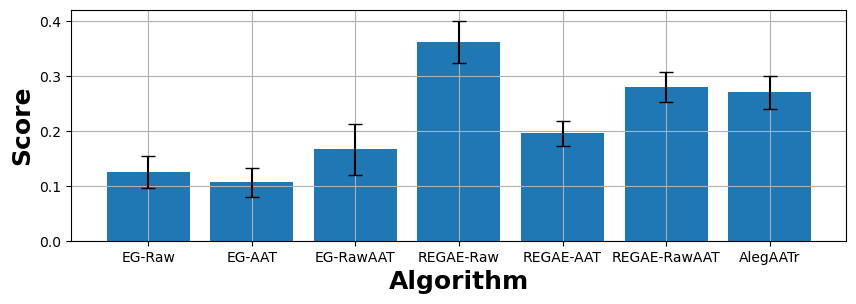
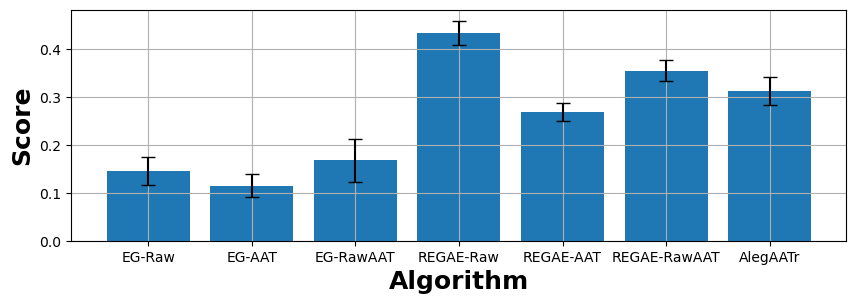
Fixed minor bug in adaptability plotting

Changed region(s): [[0.0304, 0.0592, 0.972, 0.5329], [0.0304, 0.5329, 0.972, 0.6513]]

diff --git a/simulations/adaptability_scores.py b/simulations/adaptability_scores.py
@@ -102,11 +102,16 @@ for run_num in range(N_TRAIN_TEST_RUNS):
         val = max(val, 0)
         val = min(val, 1)
         assert 0 <= val <= 1
-        results[agent_name][opp_type] = val
+        if opp_type == 'coop':
+            opp_type_adj = 'coop2' if 'twocopies' in file else 'coop1'
+            results[agent_name][opp_type_adj] = val
+        else:
+            results[agent_name][opp_type] = val
 
     for agent, res, in results.items():
-        defect_score, self_play_score, coop_score = res['greedyhare'], res['selfplay'], res['coop']
-        avg_coop_score = (self_play_score + coop_score) / 2
+        defect_score, self_play_score, coop1_score, coop2_score = \
+            res['greedyhare'], res['selfplay'], res['coop1'], res['coop2']
+        avg_coop_score = (self_play_score + coop1_score + coop2_score) / 3
         adapt_score = min([defect_score, avg_coop_score])
         results_from_every_epoch[agent]['d'] = results_from_every_epoch[agent].get('d', []) + [defect_score]
         results_from_every_epoch[agent]['c'] = results_from_every_epoch[agent].get('c', []) + [avg_coop_score]
